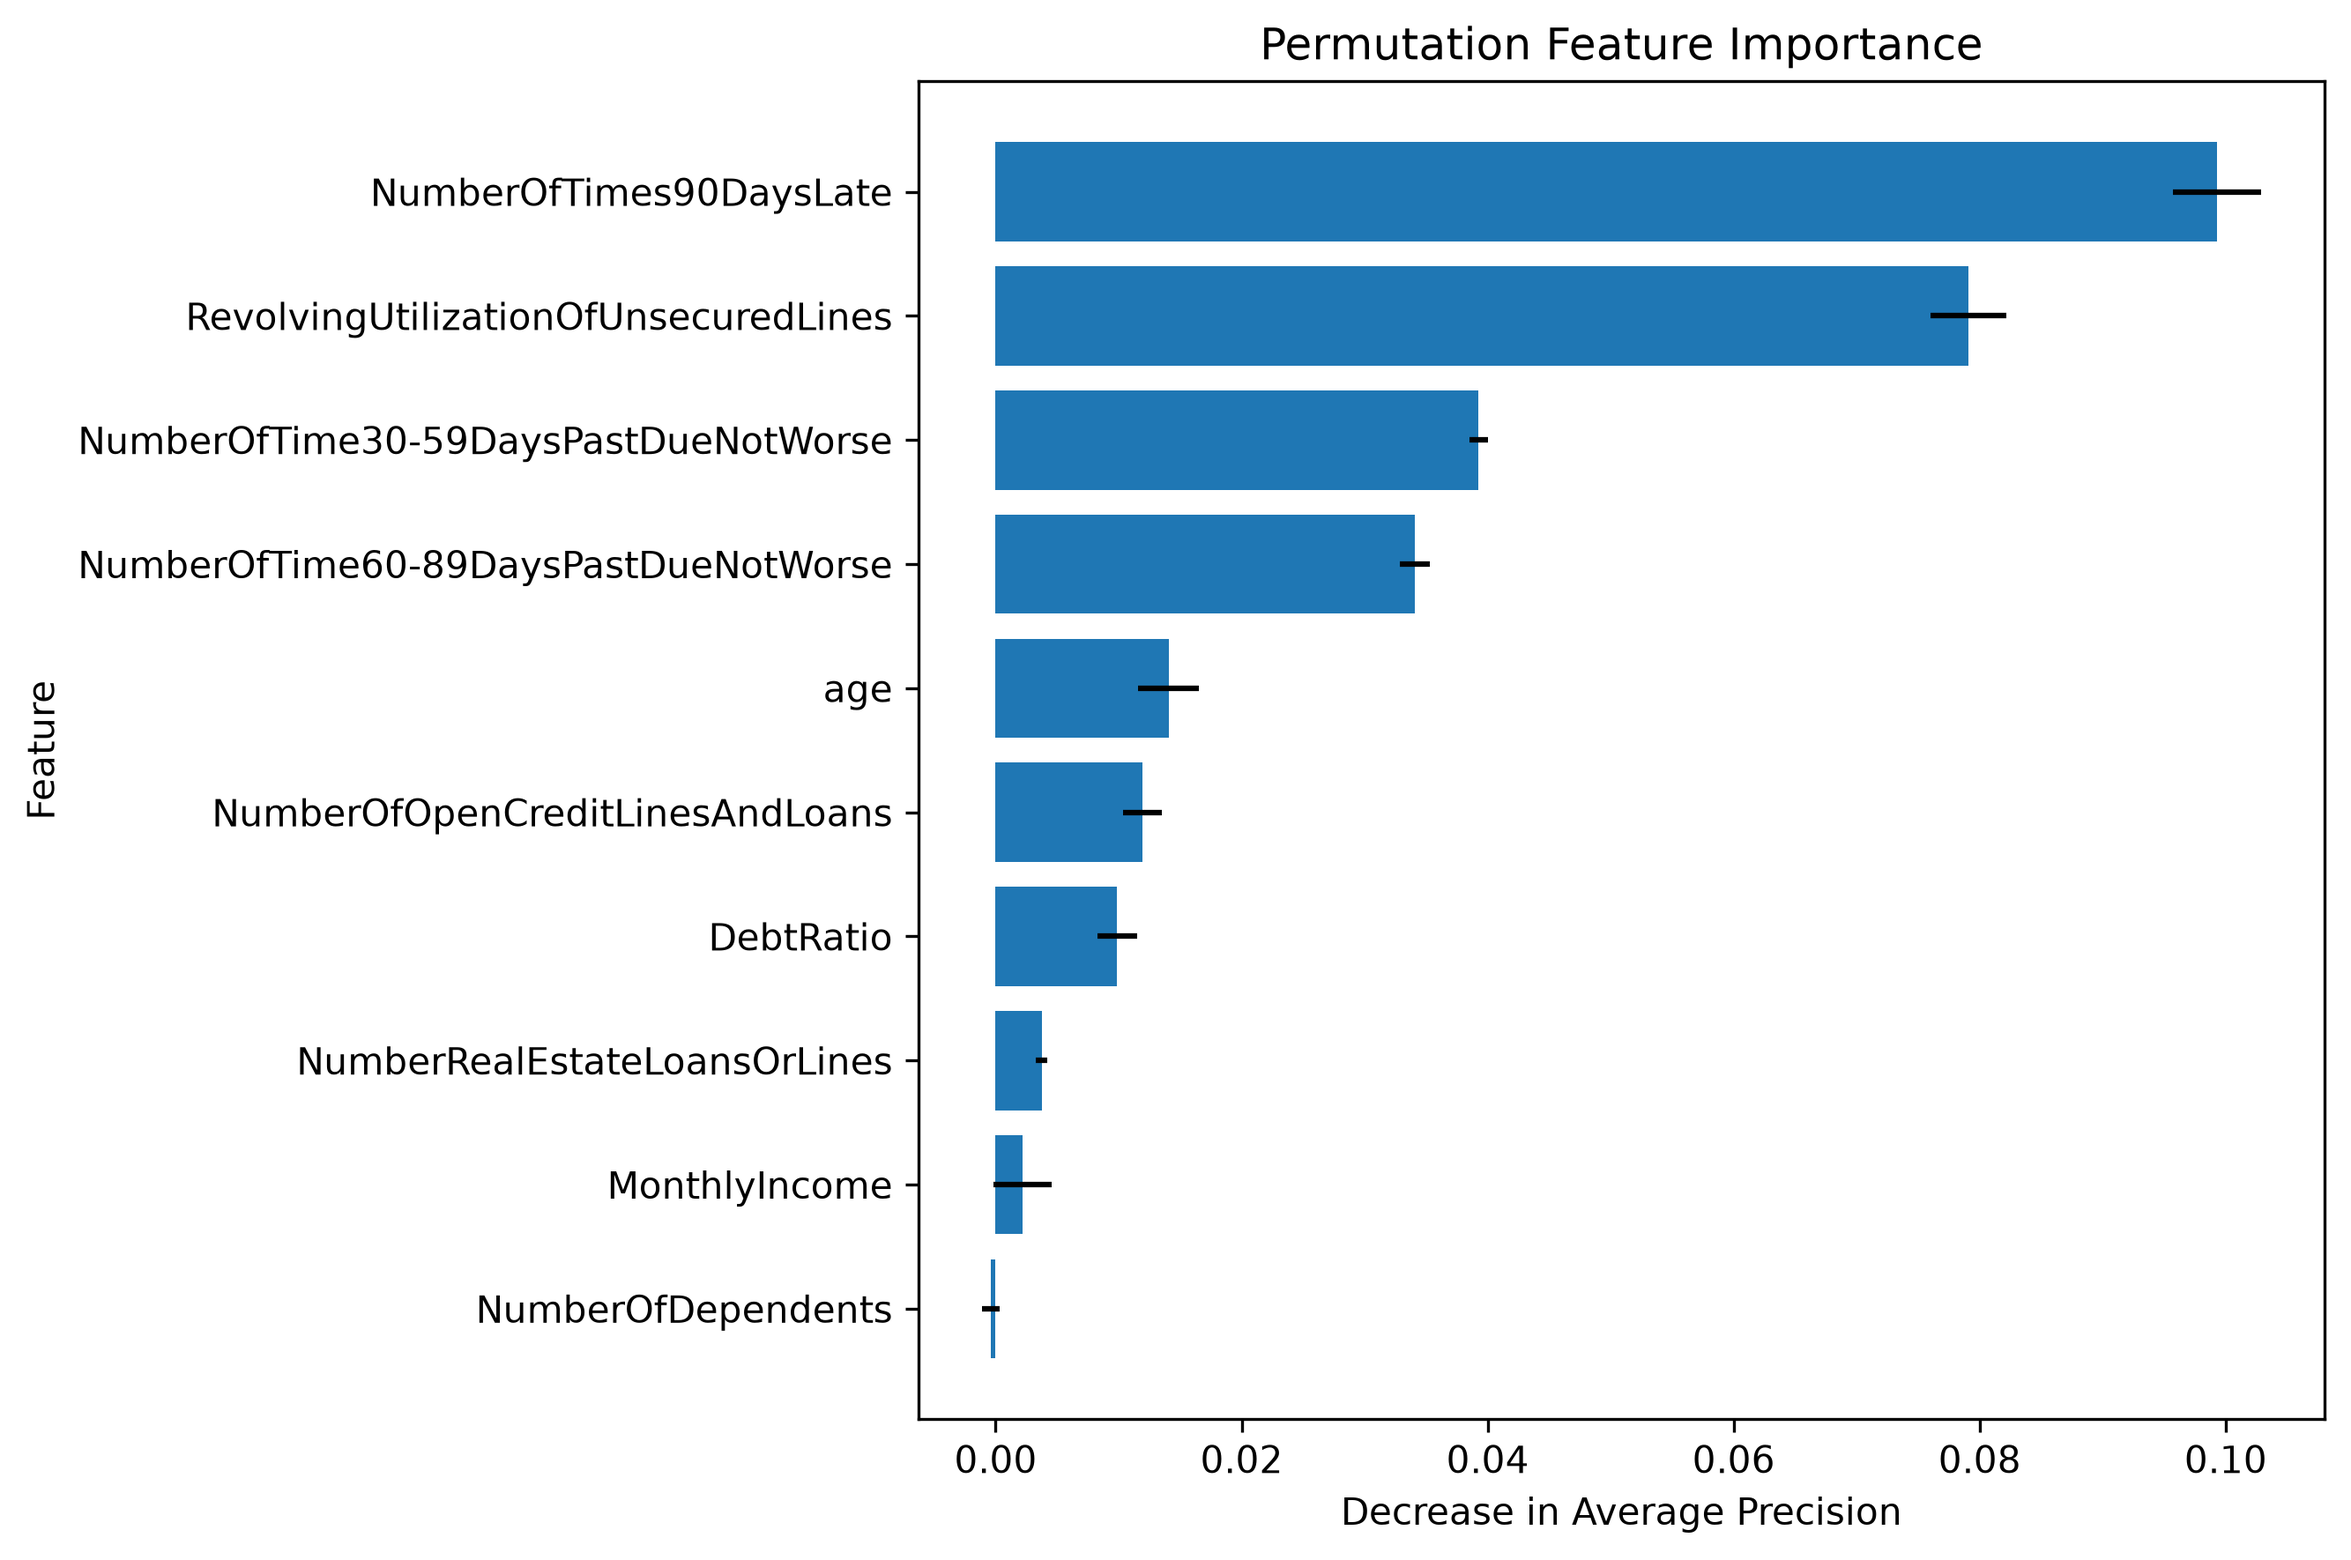
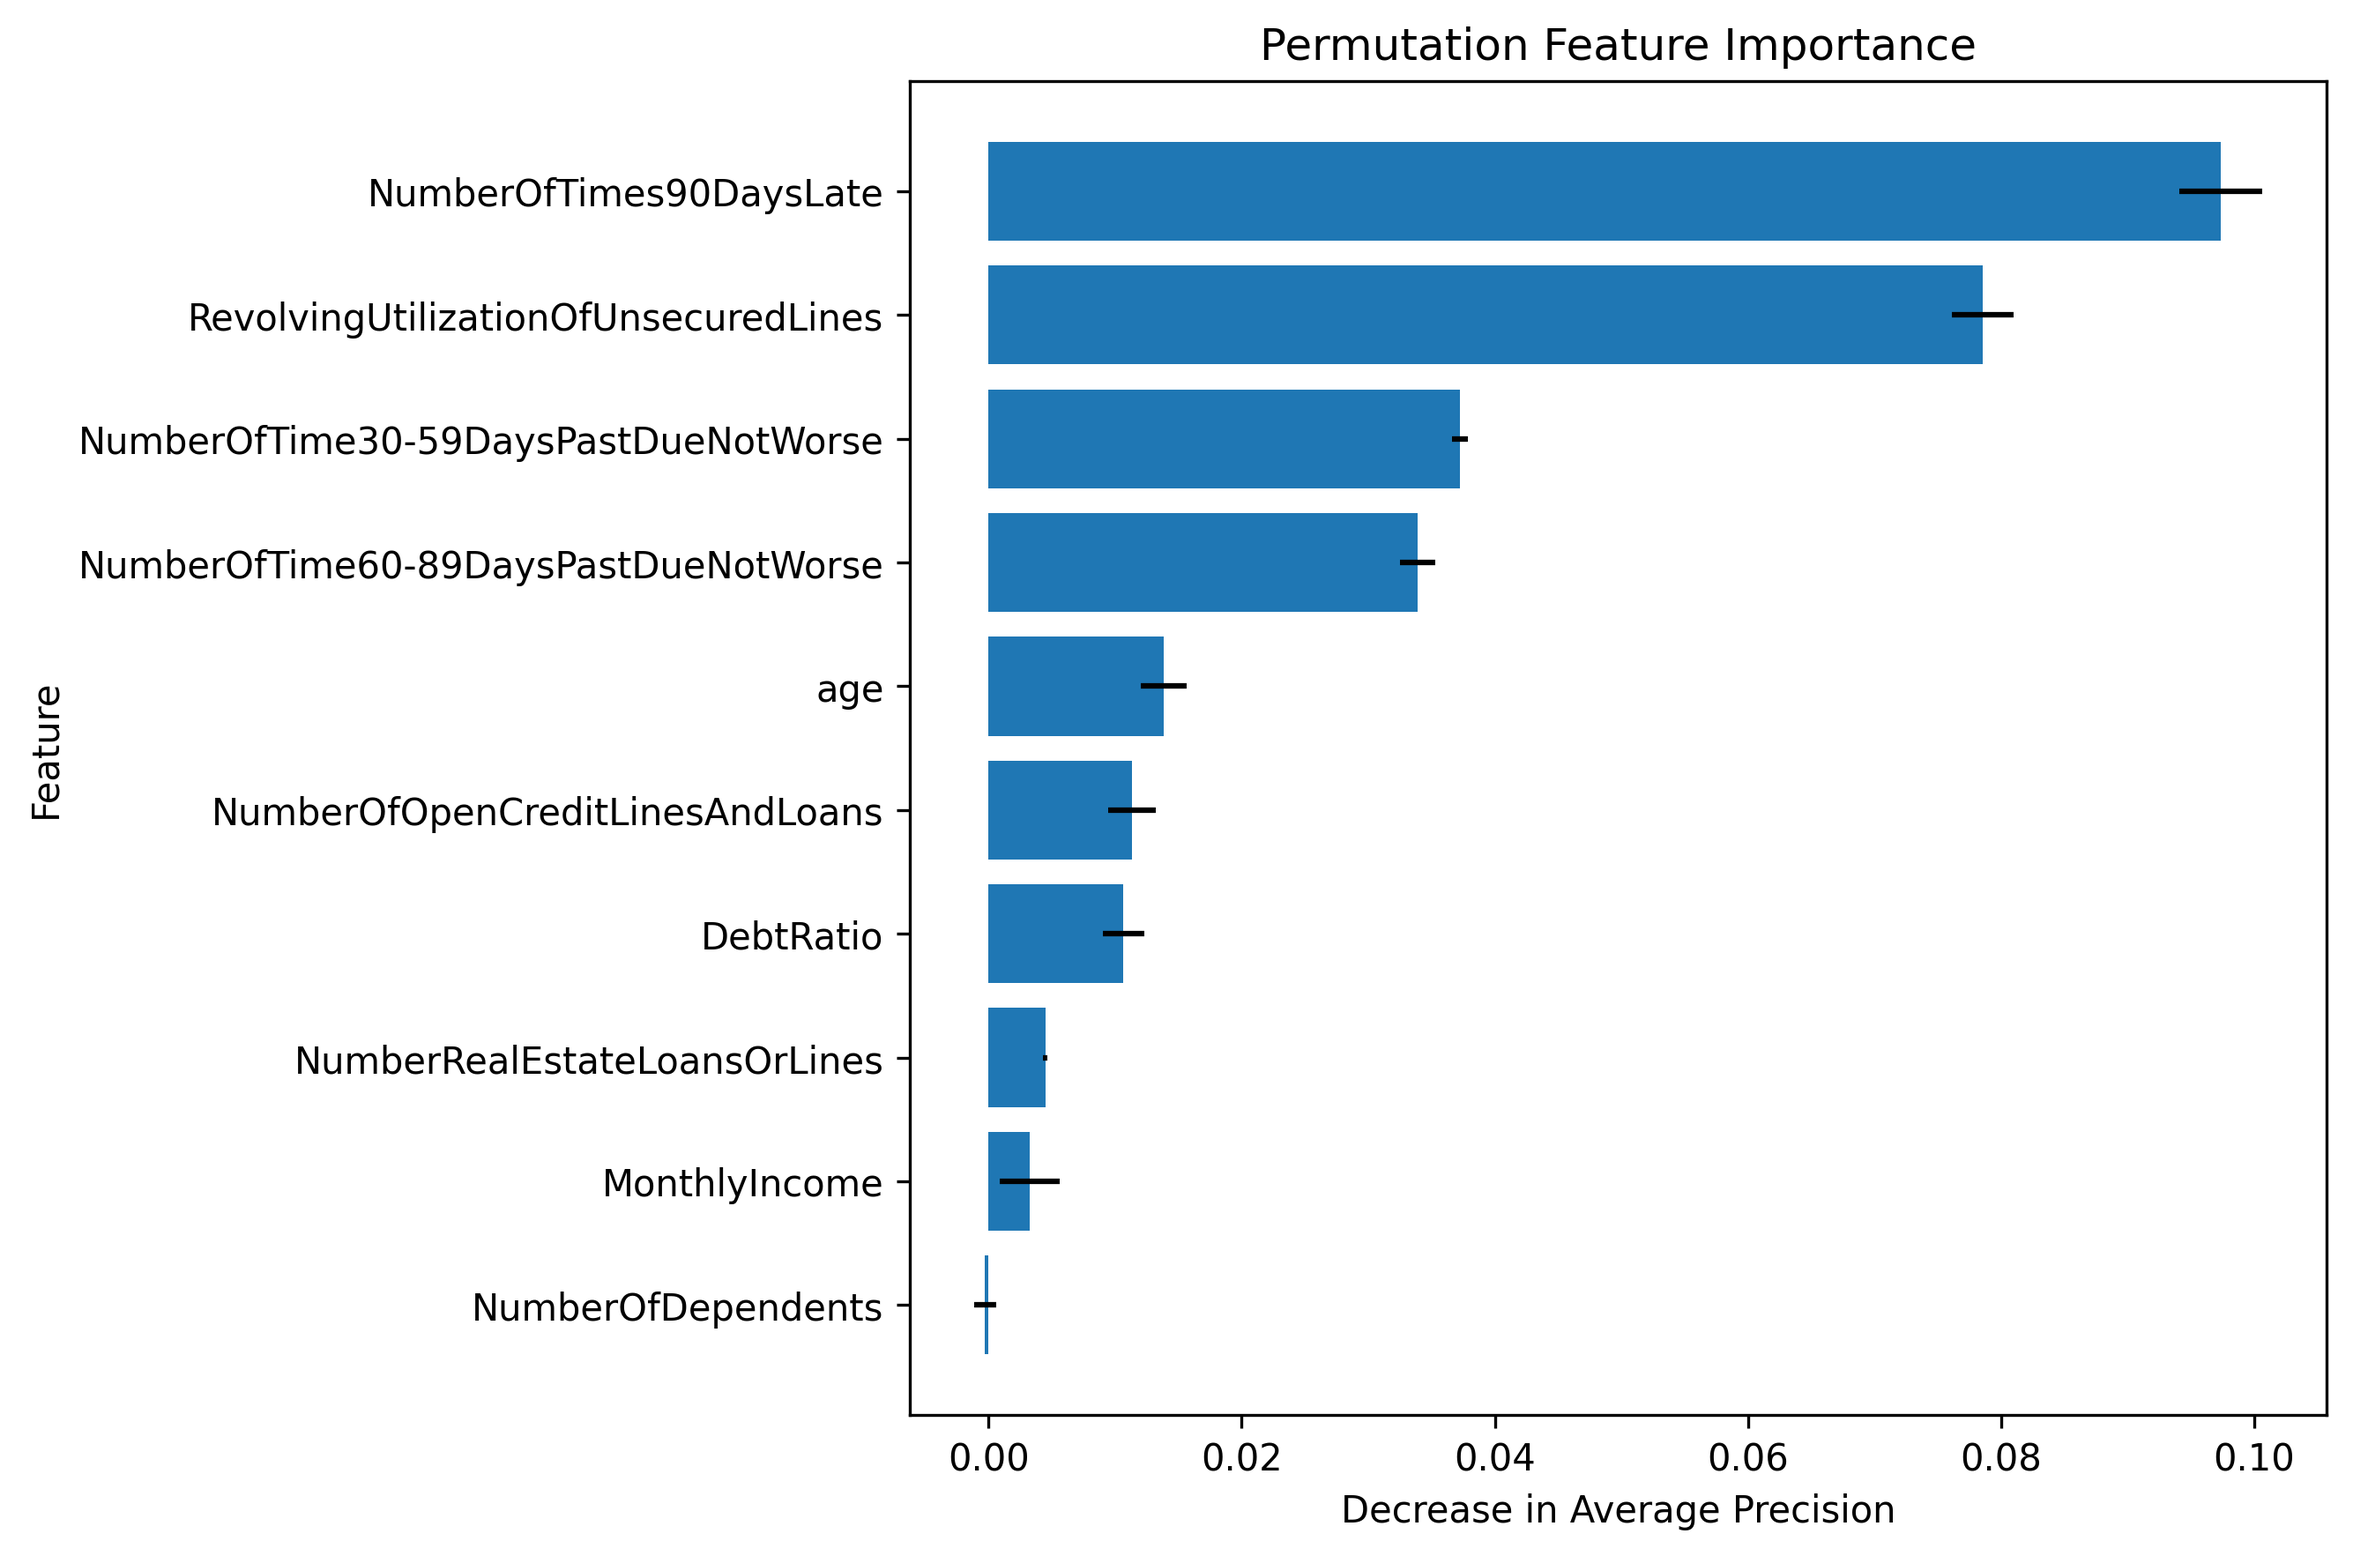
Add files via upload

diff --git a/tests/test_core.py b/tests/test_core.py
@@ -1,0 +1,78 @@
+import sys
+from pathlib import Path
+
+import numpy as np
+import pandas as pd
+import pytest
+
+sys.path.insert(0, str(Path(__file__).resolve().parents[1] / 'src'))
+
+from preprocess import preprocess_data
+from baseline_model import evaluate_review_capacity
+from review_queue import build_review_queue
+from build_database import build_database
+from query_database import validate_database
+import sqlite3
+
+
+def test_preprocessing_preserves_missing_values_and_removes_bad_ages():
+    df = pd.DataFrame({
+        'age': [30, 0, 40],
+        'NumberOfTime30-59DaysPastDueNotWorse': [96, 0, 2],
+        'NumberOfTimes90DaysLate': [0, 0, 98],
+        'NumberOfTime60-89DaysPastDueNotWorse': [0, 0, 1],
+        'MonthlyIncome': [np.nan, 1000, 2000],
+    })
+    cleaned = preprocess_data(df)
+    assert len(cleaned) == 2
+    assert pd.isna(cleaned.loc[0, 'NumberOfTime30-59DaysPastDueNotWorse'])
+    assert pd.isna(cleaned.loc[2, 'NumberOfTimes90DaysLate'])
+    assert pd.isna(cleaned.loc[0, 'MonthlyIncome'])
+
+
+def test_attention_metrics():
+    y_true = pd.Series([0, 1, 0, 1])
+    predictions = np.array([0.1, 0.9, 0.3, 0.8])
+    assert evaluate_review_capacity(y_true, predictions, [0.5]) == [(.5, 2, 2, 1.0, 1.0)]
+
+
+def test_attention_invalid_inputs():
+    with pytest.raises(ValueError):
+        evaluate_review_capacity(pd.Series([0, 0]), [0.1, 0.2], [0.5])
+    with pytest.raises(ValueError):
+        evaluate_review_capacity(pd.Series([0, 1]), [0.1], [0.5])
+    with pytest.raises(ValueError):
+        evaluate_review_capacity(pd.Series([0, 1]), [0.1, 0.2], [1.1])
+
+
+def test_review_queue_rank_and_capacity():
+    X = pd.DataFrame({'age': [30, 31, 32, 33]}, index=[3, 4, 5, 6])
+    y = pd.Series([0, 1, 0, 1], index=X.index)
+    scores = np.array([0.1, 0.9, 0.3, 0.8])
+    queue = build_review_queue(X, y, scores, capacity=.5)
+    assert queue['customer_id'].tolist() == [5, 7]
+    assert queue['review_rank'].tolist() == [1, 2]
+    assert queue['actual_outcome'].tolist() == [1, 1]
+
+
+def test_sqlite_database_roundtrip(tmp_path):
+    csv_path = tmp_path / 'queue.csv'
+    db_path = tmp_path / 'db' / 'attention.db'
+    pd.DataFrame({'customer_id': [1, 2], 'review_rank': [1, 2],
+                  'predicted_risk': [.8, .4], 'actual_outcome': [1, 0]}).to_csv(csv_path, index=False)
+    assert build_database(csv_path, db_path) == 2
+    with sqlite3.connect(db_path) as conn:
+        validate_database(conn)
+        assert conn.execute('SELECT COUNT(*) FROM review_queue').fetchone()[0] == 2
+
+
+def test_pipeline_runs_scripts_in_order_without_executing_them():
+    from unittest.mock import patch
+    import run_pipeline
+    with patch.object(run_pipeline.subprocess, 'run') as subprocess_run:
+        run_pipeline.main()
+    called_paths = [call.args[0][1] for call in subprocess_run.call_args_list]
+    assert len(called_paths) == len(run_pipeline.SCRIPTS)
+    assert called_paths[0].endswith('data_loader.py')
+    assert called_paths[-1].endswith('explain_model.py')
+    assert all(call.kwargs['check'] is True for call in subprocess_run.call_args_list)

diff --git a/src/run_pipeline.py b/src/run_pipeline.py
@@ -1,0 +1,38 @@
+"""Run the full reproducible project workflow in dependency order."""
+
+from pathlib import Path
+import subprocess
+import sys
+
+
+PROJECT_ROOT = Path(__file__).resolve().parents[1]
+SCRIPTS = [
+    "data_loader.py",
+    "data_explore.py",
+    "data_quality.py",
+    "preprocess.py",
+    "baseline_model.py",
+    "boosted_model.py",
+    "model_comparison.py",
+    "simple_rule_baseline.py",
+    "review_queue.py",
+    "build_database.py",
+    "query_database.py",
+    "create_report.py",
+    "explain_model.py",
+]
+
+
+def main():
+    for script in SCRIPTS:
+        print(f"\nRunning {script}...", flush=True)
+        subprocess.run(
+            [sys.executable, str(PROJECT_ROOT / "src" / script)],
+            cwd=PROJECT_ROOT,
+            check=True,
+        )
+    print("\nPipeline completed successfully.")
+
+
+if __name__ == "__main__":
+    main()

diff --git a/README.md b/README.md
@@ -7,6 +7,12 @@
 
 ---
 
+## Result at a glance
+
+**Reviewing the highest-ranked 20% of 30,000 test customers captures 72.97% of the future serious-distress cases** (1,463 of 2,005), versus 42.83% for a simple delinquency-count rule. Results were reproduced on the original Kaggle training data; see [validation details](VERIFICATION.md).
+
+![Attention efficiency curve](reports/attention_curve.png)
+
 ## Overview
 
 Most credit-risk projects focus on a standard machine-learning question:
@@ -111,10 +117,12 @@ Two machine-learning models were compared using the same stratified train/test s
 
 ### Predictive Performance
 
+Metrics below were reproduced using the dependency versions documented in [VERIFICATION.md](VERIFICATION.md). Different scikit-learn versions can lead to slightly different histogram-boosting results.
+
 | Model | ROC-AUC | PR-AUC |
 |---|---:|---:|
 | Logistic Regression | 0.8145 | 0.3465 |
-| Gradient Boosting | **0.8682** | **0.3979** |
+| Gradient Boosting | **0.8682** | **0.3974** |
 
 Because the positive class represents only 6.68% of customers, accuracy alone would be misleading.
 
@@ -148,10 +156,10 @@ The system then simulates different levels of available human review capacity.
 
 | Review Capacity | Random Review | 90+ Days Late Rule | Logistic Regression | Gradient Boosting |
 |---|---:|---:|---:|---:|
-| 5% | 5.00% | 30.81% | 33.37% | **36.06%** |
-| 10% | 10.00% | 35.65% | 50.72% | **54.76%** |
-| 20% | 20.00% | 42.83% | 65.49% | **73.27%** |
-| 30% | 30.00% | 49.99% | 74.11% | **83.94%** |
+| 5% | 5.00% | 30.81% | 33.37% | **35.86%** |
+| 10% | 10.00% | 35.65% | 50.72% | **55.16%** |
+| 20% | 20.00% | 42.83% | 65.49% | **72.97%** |
+| 30% | 30.00% | 49.99% | 74.11% | **83.79%** |
 
 The comparison shows that previous severe delinquency is already a useful signal.
 
@@ -162,7 +170,7 @@ At **20% review capacity**:
 - random review would capture approximately **20%** of future problem cases;
 - the 90+ days late rule captures **42.83%**;
 - Logistic Regression captures **65.49%**;
-- Gradient Boosting captures **73.27%**.
+- Gradient Boosting captures **72.97%**.
 
 This suggests that combining multiple customer characteristics adds meaningful prioritization value beyond obvious prior delinquency history.
 
@@ -172,15 +180,15 @@ This suggests that combining multiple customer characteristics adds meaningful p
 
 The central result of the project is:
 
-> **By reviewing only 20% of customers, the Gradient Boosting model concentrated 73.27% of all future serious financial-distress cases inside the review queue.**
+> **By reviewing only 20% of customers, the Gradient Boosting model concentrated 72.97% of all future serious financial-distress cases inside the review queue.**
 
 For the 30,000-customer test population:
 
 - total future problem cases: **2,005**
 - available reviews at 20% capacity: **6,000**
-- problem cases captured: **1,469**
-- capture rate: **73.27%**
-- observed problem rate inside the selected queue: **24.48%**
+- problem cases captured: **1,463**
+- capture rate: **72.97%**
+- observed problem rate inside the selected queue: **24.38%**
 
 The simple 90+ day delinquency rule captures approximately **42.83%** of future problem cases at the same review capacity.
 
@@ -213,10 +221,10 @@ The selected review queue was divided into risk bands.
 
 | Risk Band | Customers | Avg. Predicted Risk | Observed Problem Rate |
 |---|---:|---:|---:|
-| Very High | 81 | 74.45% | 70.37% |
-| High | 541 | 58.78% | 57.49% |
-| Medium | 1,024 | 38.70% | 38.96% |
-| Lower | 4,354 | 15.55% | 16.12% |
+| Very High | 100 | 74.70% | 69.00% |
+| High | 526 | 58.56% | 55.70% |
+| Medium | 1,043 | 38.55% | 39.79% |
+| Lower | 4,331 | 15.43% | 15.84% |
 
 The observed rates are descriptively close to the average predicted probabilities across these broad segments.
 
@@ -232,15 +240,15 @@ The most influential features were:
 
 | Feature | Permutation Importance |
 |---|---:|
-| NumberOfTimes90DaysLate | 0.0993 |
-| RevolvingUtilizationOfUnsecuredLines | 0.0791 |
-| NumberOfTime30-59DaysPastDueNotWorse | 0.0393 |
-| NumberOfTime60-89DaysPastDueNotWorse | 0.0341 |
-| age | 0.0141 |
+| NumberOfTimes90DaysLate | 0.0974 |
+| RevolvingUtilizationOfUnsecuredLines | 0.0786 |
+| NumberOfTime30-59DaysPastDueNotWorse | 0.0372 |
+| NumberOfTime60-89DaysPastDueNotWorse | 0.0339 |
+| age | 0.0139 |
 
 Previous delinquency behaviour and revolving credit utilization are therefore among the strongest contributors to the model's ranking performance.
 
-The fact that `NumberOfTimes90DaysLate` is the most important feature also motivated the single-feature baseline used to test whether a simpler rule could achieve comparable prioritization performance.
+The single-feature baseline was motivated independently by domain knowledge: previous severe delinquency is an intuitive, transparent ranking rule. Permutation importance was calculated subsequently as a diagnostic; test-set importance was not used to select the baseline.
 
 ---
 
@@ -300,9 +308,14 @@ attention-is-all-we-have/
 │   ├── build_database.py
 │   ├── query_database.py
 │   ├── create_report.py
-│   └── explain_model.py
+│   ├── explain_model.py
+│   └── run_pipeline.py
 │
+├── tests/
+│   └── test_core.py
 ├── .gitignore
+├── VERIFICATION.md
+├── requirements-dev.txt
 ├── requirements.txt
 └── README.md
 ```
@@ -412,6 +425,21 @@ The data directory is excluded from Git.
 
 ## Running the Project
 
+From the repository root (after setting up the dataset and environment), run the **full pipeline** in one command:
+
+```bash
+python src/run_pipeline.py
+```
+
+To run the unit tests:
+
+```bash
+python -m pip install -r requirements-dev.txt
+python -m pytest -q
+```
+
+Alternatively, execute the stages individually:
+
 Run the data inspection stages:
 
 ```bash
@@ -518,7 +546,7 @@ These limitations are intentional boundaries of the current proof of concept rat
 
 ## Key Takeaway
 
-> **20% of human review capacity captured 73.27% of future serious financial-distress cases.**
+> **20% of human review capacity captured 72.97% of future serious financial-distress cases.**
 
 A simple delinquency-based rule captured **42.83%** under the same constraint.
 

diff --git a/VERIFICATION.md b/VERIFICATION.md
@@ -1,0 +1,29 @@
+# Validation record — 8 October 2026
+
+Dataset: Kaggle *Give Me Some Credit*, `cs-training.csv.zip` (150,000 rows). An observation with age 0 is removed (149,999 remain). Internal stratified split: 119,999 train; 30,000 test (`random_state=42`).
+
+All 13 original stages executed successfully on the training data in the validation environment, and six targeted pytest unit/integration tests passed. Reports and plots in `reports/` were regenerated from these data.
+
+| Strategy | ROC-AUC | PR-AUC | Capture @ 20% |
+| --- | ---: | ---: | ---: |
+| Single-feature domain rule | — | — | 42.83% (mean over 100 tie-break repeats) |
+| Logistic Regression | 0.8145 | 0.3465 | 65.49% |
+| Histogram Gradient Boosting | 0.8682 | 0.3974 | 72.97% |
+
+Gradient Boosting review queue: 6,000 customers, 1,463 of 2,005 positive test cases captured, observed queue precision 24.38%.
+
+Tested with Python 3.13.5, NumPy 2.3.5, pandas 2.2.3, scikit-learn 1.8.0, Matplotlib 3.10.8, SciPy 1.17.0. Original archived reports contained a 73.27% capture at 20%; running the supplied code and data under the tested environment produced 72.97%. This is not necessarily a modeling improvement or degradation; rerun results under the stated environment before making a claim.
+
+The separately supplied Kaggle `cs-test.csv.zip` lacks outcome labels and was not used for supervised evaluation. It is not needed to reproduce the proof-of-concept metrics.
+
+## Local commands
+
+Place the original `cs-training.csv.zip` in `data/raw/`, then run:
+
+```bash
+python -m pip install -r requirements-dev.txt
+python -m pytest -q
+python src/run_pipeline.py
+```
+
+Raw data and generated SQLite database are not committed to version control. This is a historical demonstration and should not be used for automated real-world lending decisions.
